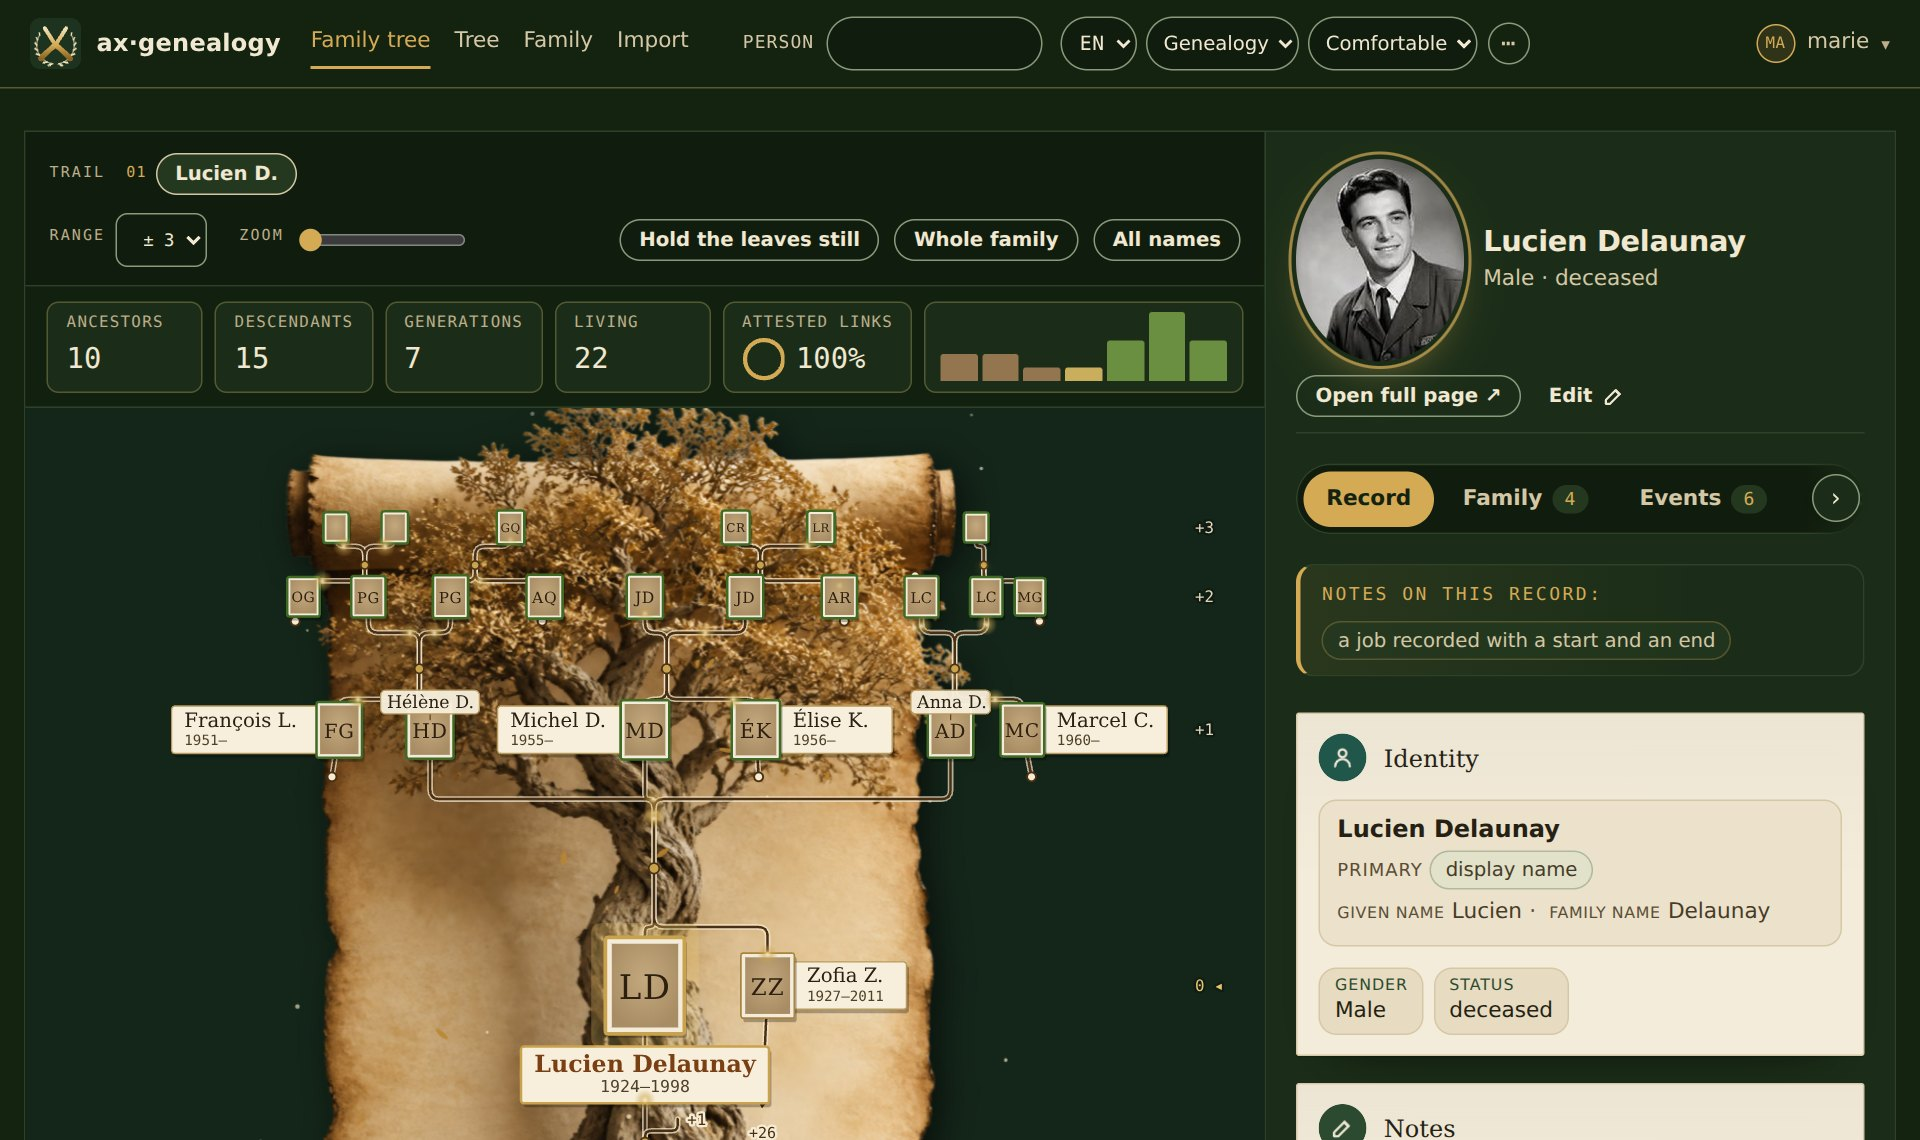
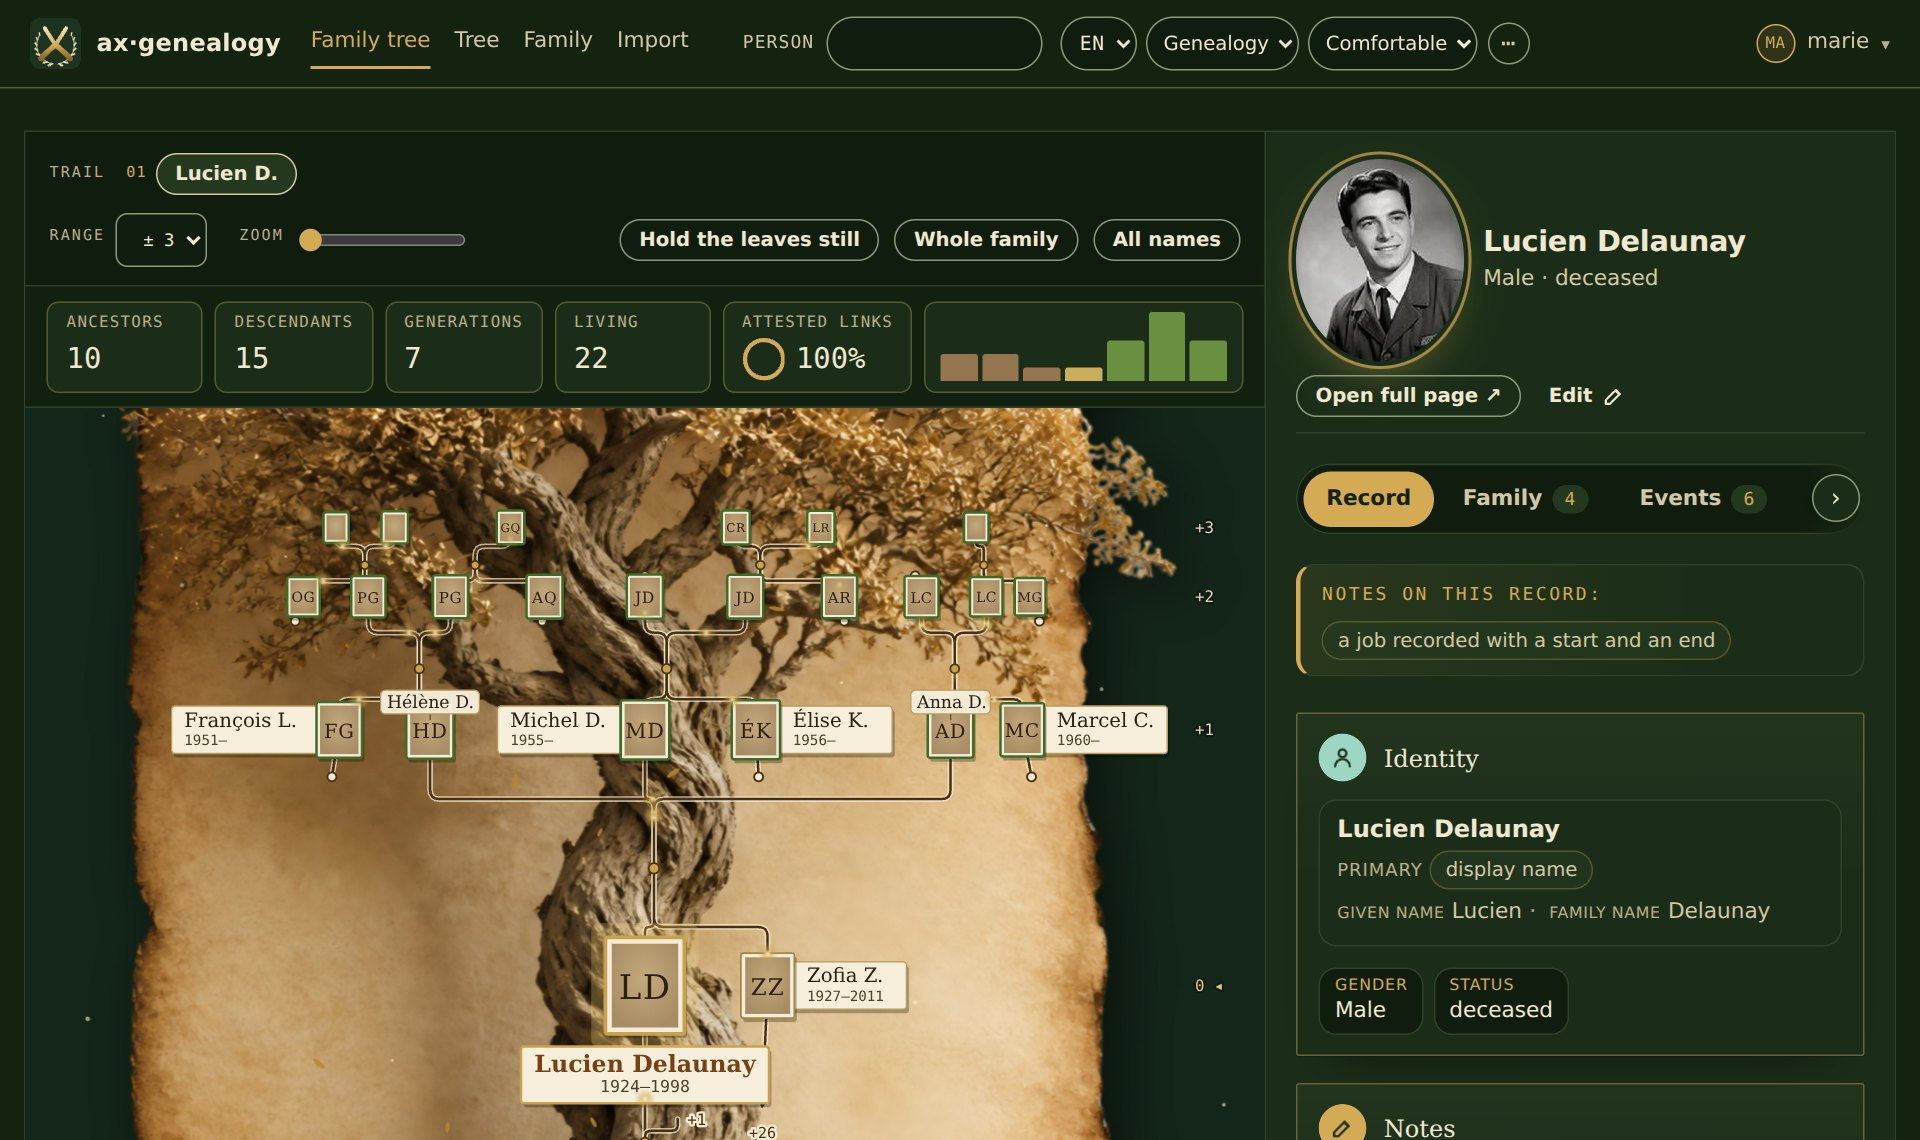
README: Genealogy's screenshot with the larger tree

diff --git a/README.md b/README.md
@@ -141,7 +141,7 @@ opens the widest range in one click.
 | **Summit: an ascent, the oldest in the valley** | **Clarity: a funnel, the oldest at the narrow end** |
 | [![The Summit theme: Lucien Delaunay at a camp on a photographed snowy range before dawn, his ancestors below him toward the valley and his children, grandchildren and great-grandchildren climbing toward the summit along gold trails, the flag on the highest peak. The dashboard sits above, and his record beside it.](docs/screenshots/summit-ascent.jpg)](docs/screenshots/summit-ascent.jpg) | [![The Clarity theme, light: a funnel of glass slices from blue at the wide mouth to pink at the narrow end. Lucien Delaunay at the front of his own slice, his wife Zofia Zając beside him, his children, grandchildren and great-grandchildren in the wider slices above and his ancestors in the narrower ones below, joined by dark teal lines. Each slice is labelled on the right with its number of people: 6, 10, 6, 2, 2, 4. His record is open beside it.](docs/screenshots/clarity-funnel.jpg)](docs/screenshots/clarity-funnel.jpg) |
 | **Genealogy: a tree to climb, the oldest at the roots** | **The whole family, under Fusion** |
-| [![The Genealogy theme: an old tree with a twisted trunk and a crown of gold leaves growing out of a parchment scroll, lit on the dark green stage. Lucien Delaunay is a sepia print with his initials in a cream mount on the trunk, his name and years on a cream card under it, Zofia Zając beside him. His children, grandchildren and great-grandchildren are up in the crown, each a sepia print beside a cream card, joined by fine dark lines with square corners and small gold knots; the trunk runs down toward the roots below. The dashboard sits above, and his record beside it.](docs/screenshots/genealogy-climb.jpg)](docs/screenshots/genealogy-climb.jpg) | [![Whole family, under Fusion: nine generations in the glass, from the great-great-great-grandparents at the foot of the cylinder to the great-grandchildren on its top floor, the dashboard counting 16 ancestors, 15 descendants, 9 generations and 22 living, with the legend reading: the roots, ancestors; the crown, descendants.](docs/screenshots/fusion-whole.jpg)](docs/screenshots/fusion-whole.jpg) |
+| [![The Genealogy theme: an old tree with a twisted trunk and a crown of gold leaves growing out of a parchment scroll, nearly the stage's width on its dark green. Lucien Delaunay is a sepia print with his initials in a cream mount on the trunk, his name and years on a cream card under it, Zofia Zając beside him. His children, grandchildren and great-grandchildren are up in the crown, each a sepia print beside a cream card, joined by fine dark lines with square corners and small gold knots; the trunk runs down toward the roots below. The dashboard sits above, and his record beside it.](docs/screenshots/genealogy-climb.jpg)](docs/screenshots/genealogy-climb.jpg) | [![Whole family, under Fusion: nine generations in the glass, from the great-great-great-grandparents at the foot of the cylinder to the great-grandchildren on its top floor, the dashboard counting 16 ancestors, 15 descendants, 9 generations and 22 living, with the legend reading: the roots, ancestors; the crown, descendants.](docs/screenshots/fusion-whole.jpg)](docs/screenshots/fusion-whole.jpg) |
 
 
 ### Every person, a record
